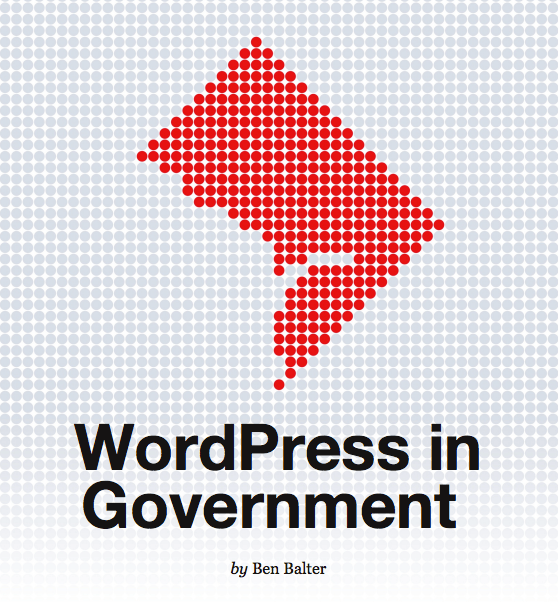
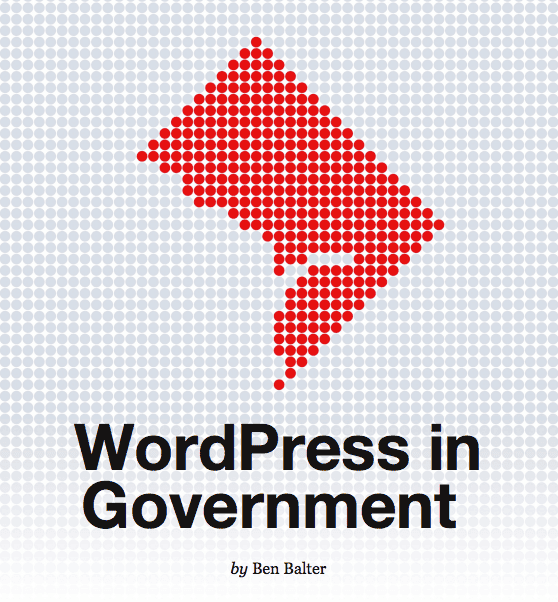
Audit: deps, security, image, dead code, hints, lighthouse config
Comprehensive audit pass producing a set of small, independently-shippable
improvements:

Dependencies:
- Patch/minor bumps: astro 6.1.9->6.1.10, @lucide/astro 1.11->1.14,
  @nuasite/checks 0.36.0->0.36.1, wrangler 4.85->4.86.

Security:
- Add yaml@^2.8.3 override under yaml-language-server in package.json
  to clear 5 of 6 moderate npm-audit advisories (yaml chain). The chain
  is dev-only via @astrojs/check, but this is a clean fix that doesn't
  require downgrading any package.

Performance:
- Lossy-optimize public/wp-content/.../wordpress-in-government PNG
  in place: 215KB -> 88KB (-59%). URL preserved for legacy WordPress
  link.

Dead code:
- Remove unused src/components/CodeBlock.astro. (YouTube.astro and
  Callout.astro left intact since they are intentionally auto-imported
  for content authors; sitemap-filter.ts left intact since its file
  comment documents reserved future use.)

Type hygiene:
- Silence ts(6385/6387) execCommand deprecation hints in
  copy-to-clipboard and linkedin-copy (production + tests) via a
  one-shot LegacyDocument cast. The execCommand fallback is intentional
  for browsers without the Clipboard API. `astro check`: 12 hints -> 0.

Lighthouse config:
- Flip csp-xss from 'off' to 'warn' (CSP is set in public/_headers).
- Add a top-level _comment field documenting why other rules remain off
  (Astro/Tailwind purging false positives; LCP element variance; static
  dist limitations vs Cloudflare-served _headers).

Changed region(s): [[0.5179, 0.9269, 0.5789, 0.9568], [0.4265, 0.9269, 0.4875, 0.9568]]

diff --git a/src/utils/copy-to-clipboard.test.ts b/src/utils/copy-to-clipboard.test.ts
@@ -1,14 +1,23 @@
 import { describe, it, expect, afterEach, beforeEach, vi } from 'vitest';
 import { copyToClipboard } from './copy-to-clipboard';
 
+// Intentional legacy fallback for browsers without Clipboard API.
+// Cast `document` through a structural type without the @deprecated
+// marker so tests that read/write/delete execCommand don't trip
+// ts(6385) deprecation hints. Runtime behavior is unchanged.
+type LegacyDocument = {
+  execCommand?: (commandId: string) => boolean;
+};
+const legacyDocument = document as unknown as LegacyDocument;
+
 describe('copyToClipboard', () => {
   const originalClipboard = navigator.clipboard;
-  let originalExecCommand: typeof document.execCommand | undefined;
+  let originalExecCommand: LegacyDocument['execCommand'];
 
   beforeEach(() => {
     // happy-dom doesn't implement execCommand; define it for mocking
-    originalExecCommand = document.execCommand;
-    document.execCommand = vi.fn().mockReturnValue(true);
+    originalExecCommand = legacyDocument.execCommand;
+    legacyDocument.execCommand = vi.fn().mockReturnValue(true);
   });
 
   afterEach(() => {
@@ -18,10 +27,9 @@ describe('copyToClipboard', () => {
       writable: true,
     });
     if (originalExecCommand !== undefined) {
-      document.execCommand = originalExecCommand;
+      legacyDocument.execCommand = originalExecCommand;
     } else {
-      // @ts-expect-error — remove mock if it didn't exist before
-      delete document.execCommand;
+      delete legacyDocument.execCommand;
     }
     vi.restoreAllMocks();
   });

diff --git a/src/scripts/linkedin-copy.test.ts b/src/scripts/linkedin-copy.test.ts
@@ -1,21 +1,29 @@
 import { describe, it, expect, vi, beforeEach, afterEach } from 'vitest';
 import { copyToClipboard } from './linkedin-copy';
 
+// Intentional legacy fallback for browsers without Clipboard API.
+// Cast `document` through a structural type without the @deprecated
+// marker so tests that read/write/delete execCommand don't trip
+// ts(6385) deprecation hints. Runtime behavior is unchanged.
+type LegacyDocument = {
+  execCommand?: (commandId: string) => boolean;
+};
+const legacyDocument = document as unknown as LegacyDocument;
+
 describe('copyToClipboard', () => {
-  let originalExecCommand: typeof document.execCommand | undefined;
+  let originalExecCommand: LegacyDocument['execCommand'];
 
   beforeEach(() => {
     // happy-dom does not implement execCommand, so define it for mocking
-    originalExecCommand = document.execCommand;
-    document.execCommand = vi.fn().mockReturnValue(true);
+    originalExecCommand = legacyDocument.execCommand;
+    legacyDocument.execCommand = vi.fn().mockReturnValue(true);
   });
 
   afterEach(() => {
     if (originalExecCommand !== undefined) {
-      document.execCommand = originalExecCommand;
+      legacyDocument.execCommand = originalExecCommand;
     } else {
-      // @ts-expect-error — remove the mock if execCommand didn't exist before
-      delete document.execCommand;
+      delete legacyDocument.execCommand;
     }
   });
 

diff --git a/src/utils/copy-to-clipboard.ts b/src/utils/copy-to-clipboard.ts
@@ -33,8 +33,14 @@ export async function copyToClipboard(text: string): Promise<boolean> {
 
   try {
     textarea.select();
+    // Intentional legacy fallback for browsers without Clipboard API.
+    // Cast through a structural type to silence ts(6387) without removing
+    // the deprecated runtime call, which we still need.
     // eslint-disable-next-line @typescript-eslint/no-deprecated
-    const ok = document.execCommand('copy');
+    const legacyDocument = document as unknown as {
+      execCommand(commandId: string): boolean;
+    };
+    const ok = legacyDocument.execCommand('copy');
     return ok;
   } catch {
     return false;

diff --git a/src/scripts/linkedin-copy.ts b/src/scripts/linkedin-copy.ts
@@ -21,7 +21,14 @@ export function copyToClipboard(text: string, triggerElement?: Element): boolean
 
   let success = false;
   try {
-    success = document.execCommand('copy');
+    // Intentional legacy fallback for browsers without Clipboard API.
+    // Cast through a structural type to silence ts(6387) without removing
+    // the deprecated runtime call, which we still need.
+    // eslint-disable-next-line @typescript-eslint/no-deprecated
+    const legacyDocument = document as unknown as {
+      execCommand(commandId: string): boolean;
+    };
+    success = legacyDocument.execCommand('copy');
   } catch {
     success = false;
   }
